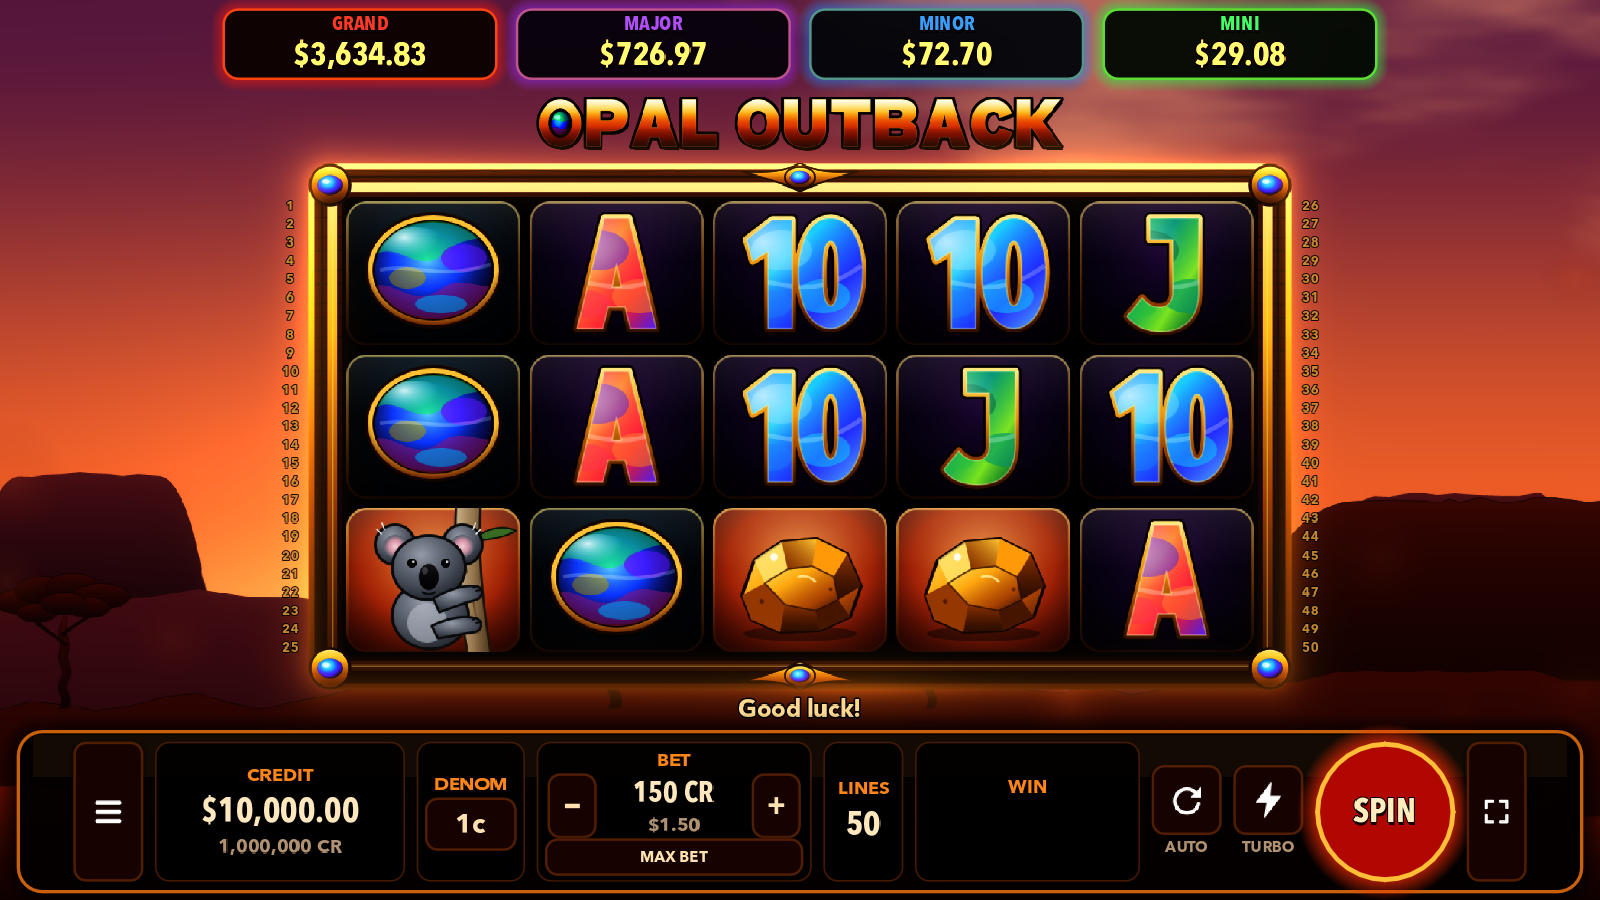
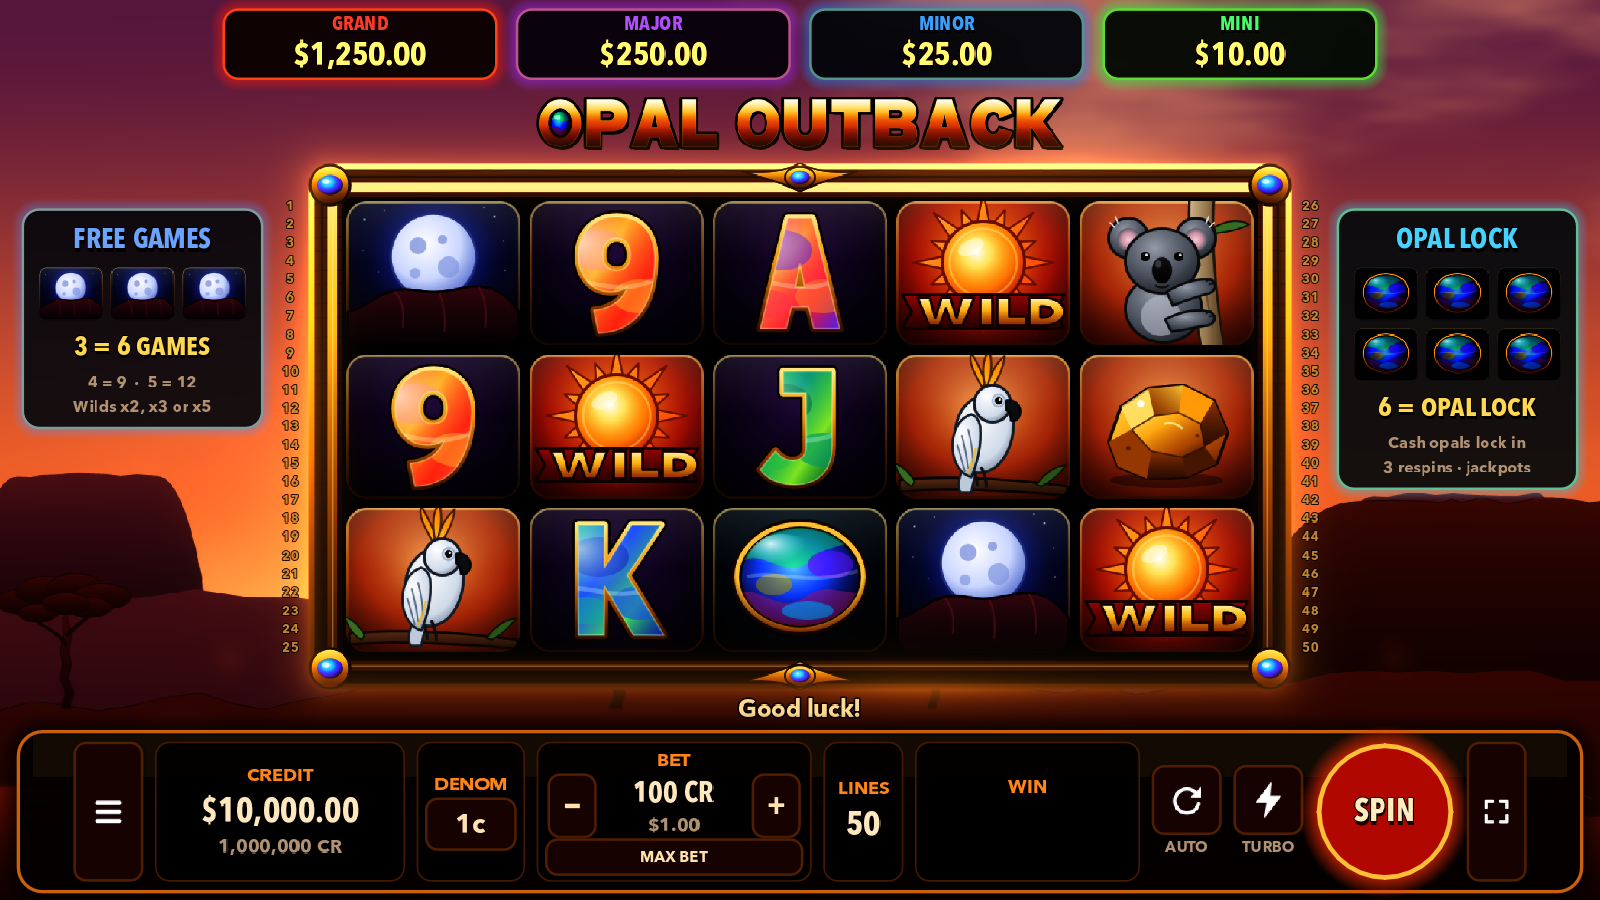
Update for v1.1.0

diff --git a/README.md b/README.md
@@ -25,13 +25,15 @@ An original outback pokie with glowing opals, a kangaroo stampede and moonlit fr
 ## Features
 
 - **5 reels, 50 paylines**, eight denominations from 1c to $2 and six bet levels.
-- **Moonlight Free Games**: 3+ Desert Moons win 8, 12 or 20 free games under a starry sky. Every Wild carries a x2, x3 or x5 multiplier, and multipliers on a line multiply together.
-- **Opal Lock**: land 6+ glowing opals to lock them in and win respins. Fill the screen for the **GRAND**.
+- **Moonlight Free Games**: land 3 Desert Moons for 6 free games (4 for 9, 5 for 12) under a starry sky. Every Wild carries a x2, x3 or x5 multiplier, and multipliers on a line multiply together.
+- **Opal Lock**: land 6 or more glowing opal cash coins to lock them in and win respins. Fill the screen for the **GRAND**.
 - **Stampede**: at any moment a mob of kangaroos can bound across the reels, leaving Wilds behind.
 - **Four jackpots**: MINI, MINOR, MAJOR and GRAND (play money, local to your computer).
 - **Gamble** your win on a card's colour or suit, or switch the gamble off.
 - Smooth, satisfying reels with slam-stop, turbo, autoplay (with a loss limit), win celebrations from Nice Win to Mega Win, and all-original art, sound and music.
-- Fair by design: every result comes from a securely seeded random number generator and real reel strips, decided the moment you press Spin. Theoretical return: about 96.6%.
+- Fair by design: every result comes from a securely seeded random number generator and real reel strips, decided the moment you press Spin. Theoretical return: about 96.4%.
+- **Always know what you need**: badges beside the reels show the trigger for each mini game (3 Moons, 6 Opals).
+- Reels stop one at a time from left to right, just like a real machine, even when you slam-stop.
 - Full keyboard, mouse and controller support; fullscreen with F.
 
 ## Requirements
